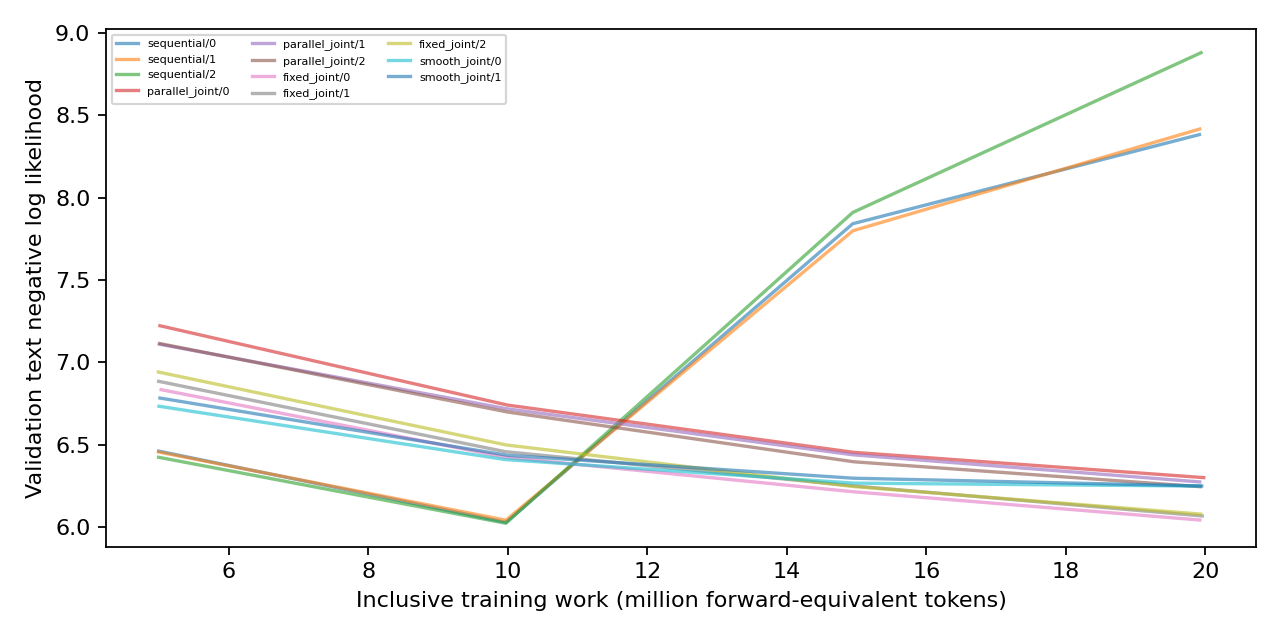
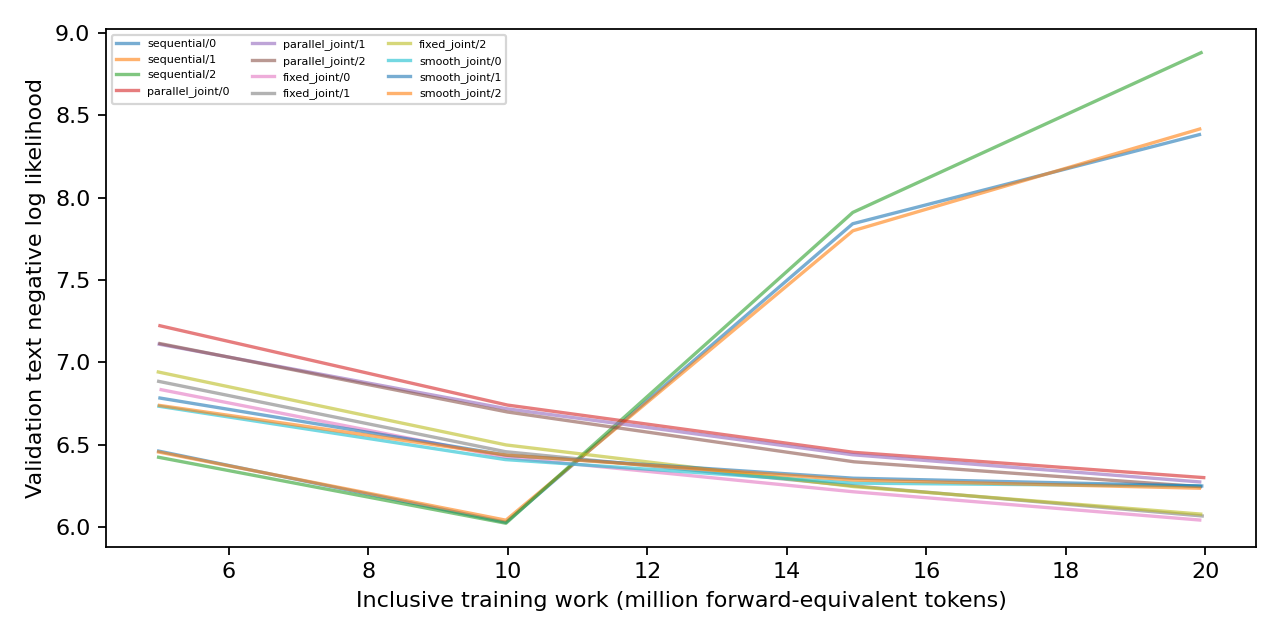
Report verified unified-training pilot progress

diff --git a/experiments/01_scratch_joint_objectives/results.md b/experiments/01_scratch_joint_objectives/results.md
@@ -15,7 +15,7 @@
 | fixed_joint | 2 | complete | 19.936 | 0.2449 [0.2281, 0.2626] | 0.0023 [0.0008, 0.0067] | 6.0435 [6.0148, 6.0742] | 0.5117 [0.4508, 0.5723] / 0.5312 [0.4701, 0.5915] |
 | smooth_joint | 0 | complete | 19.925 | 0.2513 [0.2342, 0.2691] | 0.0030 [0.0012, 0.0078] | 6.2059 [6.1783, 6.2351] | 0.4805 [0.4200, 0.5415] / 0.4922 [0.4315, 0.5531] |
 | smooth_joint | 1 | complete | 19.951 | 0.2555 [0.2383, 0.2734] | 0.0068 [0.0036, 0.0129] | 6.2006 [6.1727, 6.2301] | 0.5078 [0.4469, 0.5685] / 0.5000 [0.4392, 0.5608] |
-| smooth_joint | 2 | pending | unavailable | unavailable | unavailable | unavailable | unavailable |
+| smooth_joint | 2 | complete | 19.916 | 0.2525 [0.2355, 0.2704] | 0.0000 [0.0000, 0.0029] | 6.2176 [6.1906, 6.2468] | 0.5234 [0.4624, 0.5838] / 0.5508 [0.4895, 0.6105] |
 | aioli_objective | 0 | pending | unavailable | unavailable | unavailable | unavailable | unavailable |
 | aioli_objective | 1 | pending | unavailable | unavailable | unavailable | unavailable | unavailable |
 | aioli_objective | 2 | pending | unavailable | unavailable | unavailable | unavailable | unavailable |
@@ -33,7 +33,7 @@ NLL = negative log likelihood; preference raw ordering is the preference endpoin
 
 Intervals: 95% Wilson binary-item score, conditional on each trained model; p-val=n/a (no hypothesis test). Three seeds do not establish universal superiority. Aioli, CHORD (Controllable Harmonization of On- and Off-Policy Reinforcement Learning via Dynamic Weighting), and RPT (Reinforcement Pre-Training) are declared adaptations; exact CHERRY-RL identity remains unresolved.
 
-Complete: 11/24. See `expt_v1/PROTOCOL.md` and the program review reconciliation.
+Complete: 12/24. See `expt_v1/PROTOCOL.md` and the program review reconciliation.
 
 Seed uncertainty, two-stage seed/item intervals, initial-checkpoint changes and all paired comparisons: `expt_v1/analysis.json`. Missing trained seeds remain missing with separate accuracy sensitivity bounds. p-val=n/a throughout; no formal superiority verdict.
 

diff --git a/experiments/00_program/FINAL_STATUS.md b/experiments/00_program/FINAL_STATUS.md
@@ -1,6 +1,6 @@
 # Full-program status
 
-Verified cells: 11/48; failed: 0; interrupted: 0; pending: 37; unstarted at global bound: 0.
+Verified cells: 12/48; failed: 0; interrupted: 0; pending: 36; unstarted at global bound: 0.
 
 Full-program execution is incomplete. Required plan and implementation findings are reconciled; see acceptance.json.
 Results and uncertainty are in each experiment folder; no universal-superiority claim.
